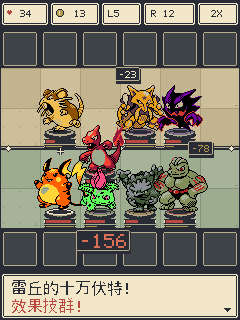
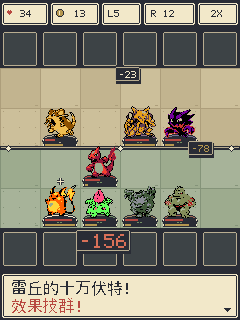
美术第 5 期：清晰度治理——6×40 满宽格 + BOX+调色板量化缩放
- 格子 34→40px（C-sym 6 列后满宽红利），精灵盒 32/34px
- 面积平均+吸附回物种四原色，杂色 0/279865 像素；对比图 scale_compare.png
- 三项硬指标：重叠 0px、调色纯度 0 违规、可见度 diff 全面上移

diff --git a/tools/mockups/render_battle_gif.py b/tools/mockups/render_battle_gif.py
@@ -11,7 +11,7 @@ v3 修正（v2 遗留的真 bug）：
 3. 死亡/击退/攻击动画全部加 `0 <=` 时间下界。
 
 视觉层与静态稿共用三色地砖、米色窗框、底座与红 HP 条。棋盘精灵
-用 NEAREST 等比缩入 28/30px，特写保留原尺寸，保留前后遮挡与调色板；精灵
+用 BOX + 物种四原色量化缩入 32/34px，特写保留原尺寸，保留前后遮挡；精灵
 命中以整只闪白、双色爆点和轨迹强调。事件游标、回放状态、时长与
 固定调色板量化均不变。
 
@@ -35,12 +35,13 @@ sys.path.insert(0, str(HERE))
 sys.path.insert(0, str(ROOT / "sim"))
 from decoders import Front, Font16, Palettes  # noqa: E402
 from render_mockups import (  # noqa: E402
-    H, W, INK, PAPER, FRAME, NIGHT, ENERGY, HP_RED, HP_LOW,
+    H, W, CELL, BOARD_X, BOARD_Y, BOARD_FOOT, INK, PAPER, FRAME, NIGHT, ENERGY, HP_RED, HP_LOW,
     TYPE_COLORS, TIER_COLORS, GRASS_A, GRASS_B, SAND_A, SAND_B,
     arena_dot, draw_hud, draw_small_number, draw_text, draw_pixel_text,
     draw_floor_tile, draw_divider, draw_base, draw_meter, draw_spark,
     pixel_window, draw_message_window, draw_cutin_stage, draw_cutin_sprites,
     draw_nameplate, draw_effect_badge, text_width, wrap_text,
+    board_sprite_size, scale_sprite, scale_compare_image,
 )
 from combat import Battle  # noqa: E402
 from data import pokedex  # noqa: E402
@@ -58,18 +59,17 @@ HIT_LIFE = 3 * FPS_DT
 PARTICLE_LIMIT = 192
 OPENING_LIFE = 4 * FPS_DT
 FULL_GOLD = (255, 208, 64)
-BOARD_FOOT = 26  # 30px 精灵顶端最多越过所在格 4px；底座前沿仍在格内。
 SCAR_FRAMES = 8
 
-# GIF 棋盘 = C-sym 布局（docs/10 §1.1/§1.5）：6 列 × 6 视觉行 × 34px（204px 宽居中）。
+# GIF 棋盘 = C-sym 布局（docs/10 §1.1/§1.5）：6 列 × 6 视觉行 × 40px（240px 满宽）。
 # 视觉行分区：0 敌备战行（虚线观战格）/ 1-2 敌方战场（沙色）/ 3-4 己方战场
 # （草绿）/ 5 我备战行（虚线观战格）。sim 战斗网格只有 4 行（combat.ROWS=4），
 # 战斗行 r 经 VIS_ROW_OFF 映射到视觉行 r+1；备战行不落战斗单位（不参战）。
-BCOLS, BROWS, BCELL = 6, 6, 34
+BCOLS, BROWS, BCELL = 6, 6, CELL
 VIS_ROW_OFF = 1                    # 战斗行 0-3 → 视觉行 1-4
 ENEMY_ROWS, ALLY_ROWS = (1, 2), (3, 4)   # 视觉行的战场分区
 BENCH_ROWS = (0, 5)                # 视觉行的双备战行
-BX, BY = (W - BCOLS * BCELL) // 2, 28
+BX, BY = BOARD_X, BOARD_Y
 
 GRASS = (GRASS_A, GRASS_B)
 SAND = (SAND_A, SAND_B)
@@ -488,8 +488,8 @@ class BattleAnimation:
                                 enemy=cy in ENEMY_ROWS, bench=cy in BENCH_ROWS)
         draw_divider(img, BX, BY + 3 * BCELL, BCOLS * BCELL)
         draw = ImageDraw.Draw(img)
-        draw.rectangle((BX - 1, BY - 1, BX + BCOLS * BCELL, BY + BROWS * BCELL),
-                       outline=INK)
+        draw.line((BX, BY - 1, BX + BCOLS * BCELL - 1, BY - 1), fill=INK)
+        draw.line((BX, BY + BROWS * BCELL, BX + BCOLS * BCELL - 1, BY + BROWS * BCELL), fill=INK)
         self._draw_ground_scars(img, T)
         shown = sorted((au for au in self.units.values() if au.visible(T)),
                        key=lambda a: a.render_px(T)[1])
@@ -704,10 +704,10 @@ class BattleAnimation:
 
     @lru_cache(maxsize=1024)
     def _board_sprite(self, species_id, tier, squash=0):
-        box = 30 if tier == 3 else 28
+        box = board_sprite_size(tier)
         source = self.front.image(species_id, self.pal)
-        # 等比缩完整源画布；仅动作相位允许纵向压缩，不做平滑/像素倍增后裁切。
-        return source.resize((box, box - squash), Image.Resampling.NEAREST)
+        # 每个动作相位直接从源图 BOX + 量化，避免多次重采样损失细节。
+        return scale_sprite(source, self.pal.for_species(species_id), (box, box - squash))
 
     def _sprite_placement(self, au, T, pose):
         sprite = self._board_sprite(au.u.piece.species_id, au.u.piece.tier,
@@ -735,7 +735,7 @@ class BattleAnimation:
                                   px_ + BCELL // 2 + r, foot + r // 2), outline=PAPER)
 
         sprite, anchor_x, anchor_y = self._sprite_placement(au, T, pose)
-        # 残影只复制已缩小的 alpha 蒙版，保持 NEAREST 三色像素边缘。
+        # 残影只复制量化后精灵的二值 alpha 蒙版，保留干净的像素边缘。
         if not dying:
             trail = next((a for a in reversed(au.attacks)
                           if HIT_DELAY <= T - a[0] < ATTACK_ANIM), None)
@@ -800,9 +800,9 @@ class BattleAnimation:
         c = HP_RED if frac > 0.25 or int(T * 10) % 4 < 2 else HP_LOW
         full = au.energy >= 80
         ec = (ENERGY if int(T * 10) % 4 < 2 else PAPER) if full else ENERGY
-        # 3px 槽分别留在脚下；第 30 行露出底座费用铆钉。
-        draw_meter(img, px_ + 3, py_ + 27, BCELL - 6, frac, c, height=3)
-        draw_meter(img, px_ + 3, py_ + 31, BCELL - 6, au.energy / 80, ec, height=3)
+        # 34×4px 双槽；第 34 行露出底座费用铆钉，能量条止于第 38 行。
+        draw_meter(img, px_ + 3, py_ + BOARD_FOOT, BCELL - 6, frac, c, height=4)
+        draw_meter(img, px_ + 3, py_ + BOARD_FOOT + 5, BCELL - 6, au.energy / 80, ec, height=4)
 
     def _ground_scars(self, T):
         """印记固定在落点格；从已发生的事件推导，不添加回放状态。"""
@@ -1083,26 +1083,17 @@ class BattleAnimation:
         y0 = BY + BROWS * BCELL + 4
         # 固定日志外框填满原有底部留白；消息出现/消退条件完全不变。
         pixel_window(img, (1, y0, 238, H - 2))
-        draw_text(img, (12, y0 + 4), "战斗记录", self.font, INK)
+        draw_text(img, (10, y0 + 4), "战斗记录", self.font, INK)
         draw_pixel_text(img, (186, y0 + 8), f"{T:04.1f}", INK)
         draw = ImageDraw.Draw(img)
         draw.line((11, y0 + 20, W - 12, y0 + 20), fill=FRAME)
         if not text or T < t0 - 0.2 or T > t0 + 1.8:
-            draw_text(img, (12, y0 + 30), "自动战斗中……", self.font, INK)
-            draw_text(img, (12, y0 + 58), "第 13 轮 · 自动战斗", self.font, INK)
+            draw_text(img, (10, y0 + 24), "自动战斗中……", self.font, INK)
             return
-        head, _, tail = text.partition("！")
-        lines = [(head + "！", INK)]
-        if tail.strip():
-            lines.append((tail.strip(), HP_RED if "拔群" in tail else INK))
-        # 外框已绘制；中文 16px / 英文 8px，按像素宽折行。
-        row = y0 + 26
-        for line, color in lines:
-            for part in wrap_text(line, W - 24):
-                if row + 15 > H - 8:
-                    break
-                draw_text(img, (12, row), part, self.font, color)
-                row += 18
+        # 40px 棋盘后日志只有 48px：按原消息寿命分页，一次完整显示一行。
+        lines = wrap_text(text, W - 36)
+        line = lines[min(len(lines) - 1, max(0, int((T - t0) / 0.6)))]
+        draw_text(img, (10, y0 + 24), line, self.font, HP_RED if "拔群" in line else INK)
         if int(T * 4) % 2 == 0:
             cx, cy = W - 18, H - 10
             draw.polygon(((cx - 3, cy - 3), (cx + 3, cy - 3), (cx, cy)), fill=INK)
@@ -1215,6 +1206,7 @@ def main() -> None:
     qframes = quantize_frames(frames)
     out = ROOT / "docs" / "design" / "mockups"
     out.mkdir(parents=True, exist_ok=True)
+    scale_compare_image(front, pal, font).save(out / "scale_compare.png")
     qframes[0].save(out / "battle_anim.gif", save_all=True,
                     append_images=qframes[1:], duration=int(FPS_DT * 1000),
                     loop=0)

diff --git a/tools/mockups/fx_visibility_check.py b/tools/mockups/fx_visibility_check.py
@@ -14,6 +14,8 @@
 阈值直接应用于 240×320 原尺寸，比任务要求的 2× 可见度更严格。
 第 4 期增加实际精灵 alpha 包围盒的 board_crowding（≤4px）、状态条
 遮挡（≤2 帧），以及全属性变体、力度边界、地痕寿命和物种动作覆盖。
+第 5 期新增 palette_purity（含全部压缩相位）与 scale_compare 三联图核对，
+在 40px 格和 32/34px 目标盒下继续执行原可见度红线。
 """
 
 import argparse
@@ -131,7 +133,7 @@ def save_pair(output, name, before, after):
 
 
 def unit_layer_checks(anim, t, board):
-    """直接量测实际 NEAREST/动作压缩后的 alpha 包围盒和最终血条像素。"""
+    """直接量测实际 BOX+量化/动作压缩后的 alpha 包围盒和最终血条像素。"""
     shown, failures = [], []
     checked_meters, obscured_meters = 0, 0
     for idx, au in anim.units.items():
@@ -144,7 +146,7 @@ def unit_layer_checks(anim, t, board):
         px, py = au.render_px(t)
         shown.append((idx, round((py - r.BY) / r.BCELL), px, box))
         # 插值原点可含小数，最终图像取整容差为 0.5px。
-        if box[1] < py - 4.5 or sprite.width != (30 if au.u.piece.tier == 3 else 28):
+        if box[1] < py - 4.5 or sprite.width != (34 if au.u.piece.tier == 3 else 32):
             failures.append({"kind": "board_fit", "t": round(t, 4), "unit": idx,
                              "bbox": box, "cell_y": py})
         expected = Image.new("RGBA", (r.W, r.H))
@@ -255,14 +257,11 @@ def motion_contract_checks(anim):
         representatives.setdefault(profile[1], piece)
         source = anim.front.image(sid, anim.pal)
         sprite = anim._board_sprite(sid, piece.tier)
-        expected = 30 if piece.tier == 3 else 28
+        expected = 34 if piece.tier == 3 else 32
         scales.add((source.width, expected, round(expected / source.width, 6)))
-        # 最近邻不能混出新颜色；等比缩放的静态画布宽高必须相等。
-        colors = {c for _, c in source.getcolors(source.width * source.height) if c[3]}
-        if (sprite.size != (expected, expected)
-                or any(c[3] and c not in colors
-                       for _, c in sprite.getcolors(sprite.width * sprite.height))):
-            failures.append({"kind": "nearest_sprite_fit", "species": sid})
+        # 颜色归入独立 palette_purity；静态目标盒保持等比。
+        if sprite.size != (expected, expected):
+            failures.append({"kind": "sprite_fit", "species": sid})
     attack_signatures, idle_signatures, hit_responses = {}, {}, {}
     for piece in roster:
         profile = anim._motion_profile(piece.species_id)
@@ -294,6 +293,68 @@ def motion_contract_checks(anim):
             "idle_types": len(buckets[0]), "attack_types": len(buckets[1]),
             "hit_types": len(buckets[2]), "walk_rates": sorted(buckets[3]),
             "scales": sorted(scales), "failures": failures}
+
+
+def palette_purity_checks(anim):
+    """按 pal.for_species 的四原色验收真实缓存缩图，含 0–6px 动作压缩。"""
+    failures, checked, visible, off_palette, partial_alpha = [], 0, 0, 0, 0
+    roster = [p for group in r.build_roster().values() for p in group]
+    for piece in roster:
+        allowed = {tuple(c) for c in anim.pal.for_species(piece.species_id)}
+        for squash in range(7):
+            sprite = anim._board_sprite(piece.species_id, piece.tier, squash)
+            pixels = sprite.getcolors(sprite.width * sprite.height)
+            invalid = sum(n for n, c in pixels if c[3] and c[:3] not in allowed)
+            partial = sum(n for n, c in pixels if c[3] not in (0, 255))
+            nonempty = sum(n for n, c in pixels if c[3])
+            checked += 1
+            visible += nonempty
+            off_palette += invalid
+            partial_alpha += partial
+            expected = 34 if piece.tier == 3 else 32
+            if (invalid or partial or not nonempty
+                    or sprite.size != (expected, expected - squash)):
+                failures.append({"kind": "palette_purity", "species": piece.species_id,
+                                 "squash": squash, "off_palette_pixels": invalid,
+                                 "partial_alpha_pixels": partial, "visible_pixels": nonempty,
+                                 "size": sprite.size})
+    # 防止验收样本失去敏感性：该 56→34 BOX 原图确实会产生调色板外颜色。
+    mixed = anim.front.image(6, anim.pal).resize((34, 34), Image.Resampling.BOX)
+    allowed = set(anim.pal.for_species(6))
+    unquantized = sum(n for n, c in mixed.getcolors(34 * 34) if c[3] and c[:3] not in allowed)
+    if not unquantized:
+        failures.append({"kind": "palette_purity_fixture", "reason": "BOX has no mixed colors"})
+    return {"species_checked": len({p.species_id for p in roster}), "sprites_checked": checked,
+            "squash_phases": 7, "visible_pixels": visible, "off_palette_pixels": off_palette,
+            "partial_alpha_pixels": partial_alpha, "unquantized_box_off_palette_pixels": unquantized,
+            "failures": failures}
+
+
+def scale_compare_checks(anim):
+    """核对已交付 PNG 的三种 1×/4× 呈现，不把展示图误做等宽拉伸。"""
+    path = r.ROOT / "docs/design/mockups/scale_compare.png"
+    failures, samples = [], []
+    if not path.is_file():
+        return {"failures": [{"kind": "scale_compare", "reason": "missing PNG"}]}
+    with Image.open(path) as opened:
+        image = opened.convert("RGB")
+    expected = r.scale_compare_image(anim.front, anim.pal, anim.font)
+    if image.size != expected.size or diff_pixels(image, expected):
+        failures.append({"kind": "scale_compare", "reason": "stale or incorrect PNG"})
+    source = anim.front.image(6, anim.pal)
+    for i, sprite in enumerate((source.resize((28, 28), Image.Resampling.NEAREST),
+                                anim._board_sprite(6, 3), source)):
+        for zoom, baseline in ((1, 140), (4, 424)):
+            enlarged = sprite.resize((sprite.width * zoom, sprite.height * zoom), Image.Resampling.NEAREST)
+            tile = Image.new("RGBA", enlarged.size, r.PAPER + (255,))
+            tile.alpha_composite(enlarged)
+            x = 12 + i * 244 + (232 - enlarged.width) // 2
+            region = image.crop((x, baseline - enlarged.height, x + enlarged.width, baseline))
+            count = diff_pixels(region, tile)
+            samples.append({"size_px": sprite.width, "zoom": zoom, "diff_pixels": count})
+            if count:
+                failures.append({"kind": "scale_compare", **samples[-1]})
+    return {"species": 6, "source_px": source.width, "samples": samples, "failures": failures}
 
 
 def check_seed(seed, output=None):
@@ -395,6 +456,12 @@ def check_seed(seed, output=None):
     failures.extend(styles["failures"])
     motions = motion_contract_checks(anim)
     failures.extend(motions["failures"])
+    purity = palette_purity_checks(anim)
+    failures.extend(purity["failures"])
+    comparison = scale_compare_checks(anim)
+    failures.extend(comparison["failures"])
+    summary["palette_purity"] = {k: v for k, v in purity.items() if k != "failures"}
+    summary["scale_compare"] = {k: v for k, v in comparison.items() if k != "failures"}
     report = {"seed": seed, "summary": summary, "frames": rows, "isolated": isolated,
               "styles": styles, "motions": motions,
               "failures": failures, "elapsed_seconds": round(time.perf_counter() - start, 3)}

diff --git a/tools/mockups/render_mockups.py b/tools/mockups/render_mockups.py
@@ -15,6 +15,7 @@ from decoders import Front, Font16, Palettes
 
 W, H = 240, 320
 CELL = 40
+BOARD_FOOT = 30  # 34px 目标盒允许向上溢出 4px。
 BOARD_X, BOARD_Y = 0, 28
 HUD_H, SHOP_H = 28, 48
 
@@ -218,8 +219,55 @@ def draw_meter(img, x, y, width, frac, color=HP_RED, height=5):
 
 
 def draw_meters(img, x, y, width, hp, energy, hp_color=HP_RED, energy_color=ENERGY):
-    draw_meter(img, x, y, width, hp, hp_color)
-    draw_meter(img, x, y + 6, width, energy or 0, energy_color, height=3)
+    draw_meter(img, x, y, width, hp, hp_color, height=4)
+    draw_meter(img, x, y + 5, width, energy or 0, energy_color, height=4)
+
+
+def board_sprite_size(tier):
+    return 34 if tier == 3 else 32
+
+
+def scale_sprite(source, palette, size):
+    """面积平均后按 RGB 平方距离吸附到物种四原色；覆盖率半数取整。
+
+    RGBA BOX 使用预乘 alpha，透明背景不污染边缘 RGB。量化不抖动，
+    alpha 收为 0/255，防止半透明边缘与地砖再次混色。
+    """
+    averaged = source.resize(size, Image.Resampling.BOX)
+    colors = tuple(tuple(c) for c in palette)
+    mapped = {}
+    for _, rgba in averaged.getcolors(averaged.width * averaged.height):
+        rgb, alpha = rgba[:3], rgba[3]
+        nearest = min(colors, key=lambda c: sum((a - b) ** 2 for a, b in zip(rgb, c)))
+        mapped[rgba] = nearest + (255 if alpha >= 128 else 0,)
+    sprite = Image.new("RGBA", size)
+    pixels = averaged.load()
+    sprite.putdata([mapped[pixels[x, y]] for y in range(size[1]) for x in range(size[0])])
+    return sprite
+
+
+def scale_compare_image(front, pal, font):
+    """同一 56px 喷火龙：原生尺寸与统一 4× 像素放大，供人眼比对。"""
+    source = front.image(6, pal)
+    if source.size != (56, 56):
+        raise ValueError("scale_compare requires a 56px source")
+    samples = (source.resize((28, 28), Image.Resampling.NEAREST),
+               scale_sprite(source, pal.for_species(6), (34, 34)), source)
+    img = Image.new("RGBA", (744, 452), NIGHT + (255,))
+    draw_text(img, (12, 12), "喷火龙 · 精灵缩放对比", font, PAPER)
+    for i, (sprite, title, label) in enumerate(zip(
+            samples, ("第4期", "第5期", "原尺寸"),
+            ("28 PX / NEAREST", "34 PX / BOX+PAL", "56 PX / SOURCE"))):
+        x = 12 + i * 244
+        pixel_window(img, (x, 44, x + 231, 439))
+        draw_text(img, (x + 8, 52), title, font, INK)
+        draw_pixel_text(img, (x + 8, 76), label, INK)
+        draw_pixel_text(img, (x + 8, 146), "1X", INK)
+        draw_pixel_text(img, (x + 8, 174), "4X", INK)
+        img.alpha_composite(sprite, (x + (232 - sprite.width) // 2, 140 - sprite.height))
+        enlarged = sprite.resize((sprite.width * 4, sprite.height * 4), Image.Resampling.NEAREST)
+        img.alpha_composite(enlarged, (x + (232 - enlarged.width) // 2, 424 - enlarged.height))
+    return img.convert("RGB")
 
 
 def draw_floor_tile(img, x, y, size, cx, cy, enemy, bench=False):
@@ -287,15 +335,16 @@ def draw_piece(img: Image, front: Front, pal: Palettes, font: Font16,
                hp_frac: float = None, energy_frac: float = None,
                selected: bool = False, casting: bool = False) -> None:
     x, y = BOARD_X + cx * CELL, BOARD_Y + cy * CELL
-    foot = y + CELL - (16 if hp_frac is not None else 10)
-    draw_base(img, x + 3, foot, CELL - 6, types, tier, casting)
-    sprite = front.image(pid, pal)
+    foot = y + BOARD_FOOT
+    draw_base(img, x + 1, foot, CELL - 2, types, tier, casting)
+    box = board_sprite_size(tier)
+    sprite = scale_sprite(front.image(pid, pal), pal.for_species(pid), (box, box))
     bounds = sprite.getbbox()
-    lift = 2 if casting else 0
+    lift = min(2, BOARD_FOOT - (bounds[3] - bounds[1]) + 4) if casting else 0
     img.alpha_composite(sprite, (x + (CELL - sprite.width) // 2,
                                  foot - bounds[3] - lift))
     if hp_frac is not None:
-        draw_meters(img, x + 4, y + CELL - 9, CELL - 8, hp_frac, energy_frac)
+        draw_meters(img, x + 3, y + BOARD_FOOT, CELL - 6, hp_frac, energy_frac)
     if selected:
         draw_cursor(img, x, y, CELL)
     if casting:
@@ -367,7 +416,8 @@ def draw_shop(img: Image, front: Front, pal: Palettes, font: Font16,
 def board_frame(img: Image) -> None:
     draw_divider(img, BOARD_X, BOARD_Y + 3 * CELL, 6 * CELL)
     draw = ImageDraw.Draw(img)
-    draw.rectangle((0, BOARD_Y, W - 1, BOARD_Y + 6 * CELL - 1), outline=INK)
+    draw.line((0, BOARD_Y - 1, W - 1, BOARD_Y - 1), fill=INK)
+    draw.line((0, BOARD_Y + 6 * CELL, W - 1, BOARD_Y + 6 * CELL), fill=INK)
 
 
 def draw_message_window(img, font, box, lines, cursor=True):
